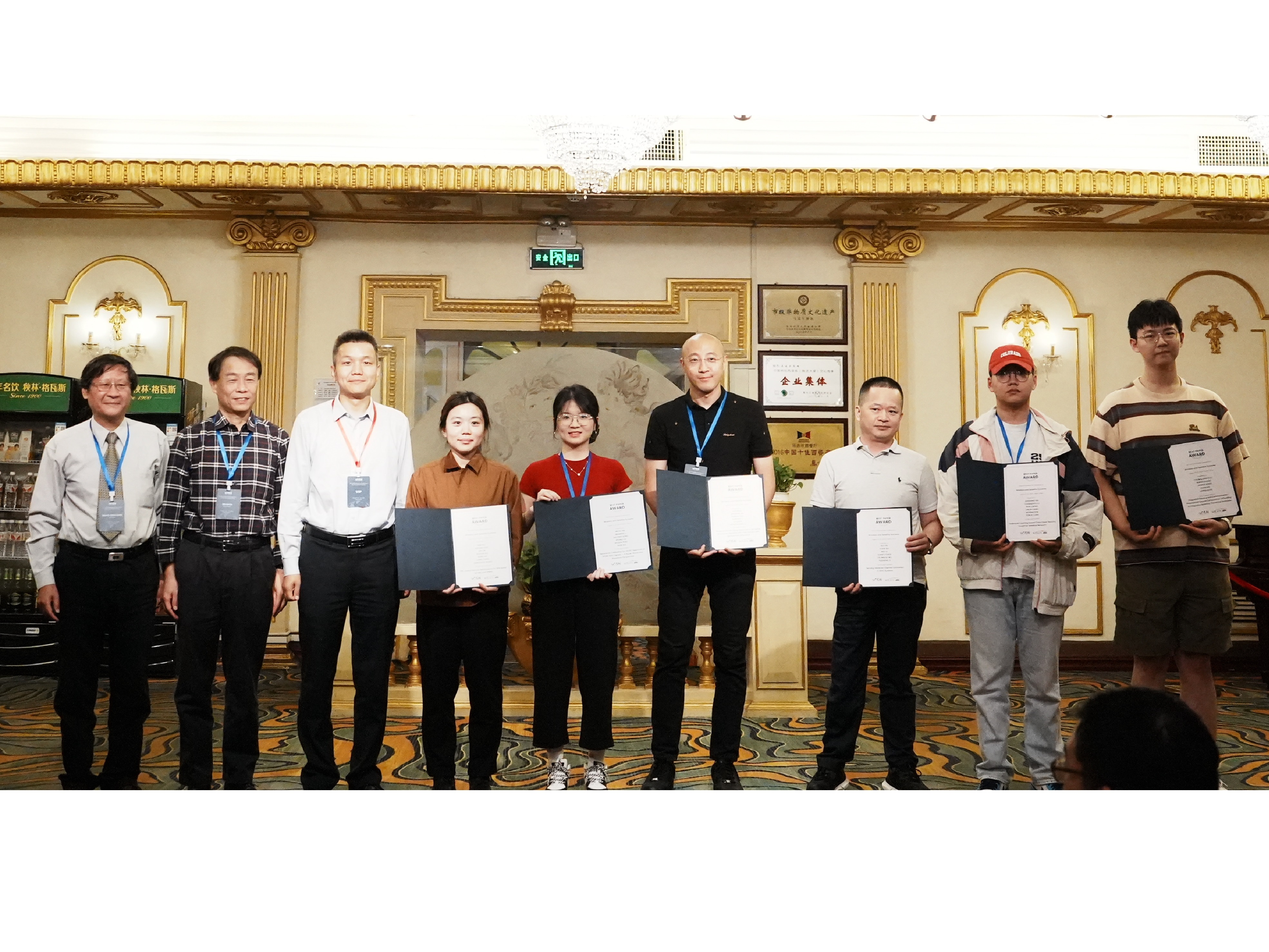
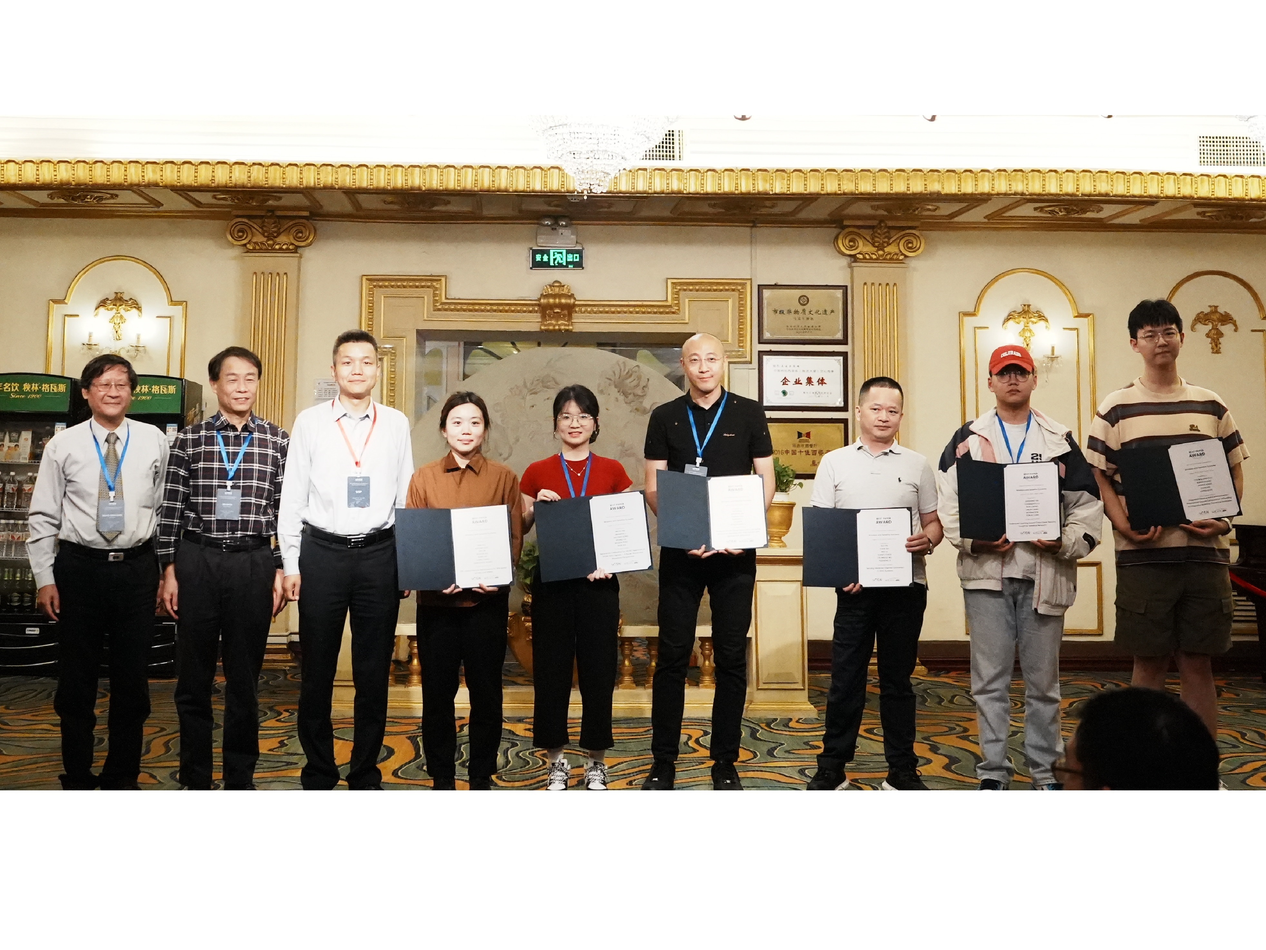
[post] 修改日期+图片尺寸

diff --git a/content/post/祝贺实验室尹志胜副教授、刘永红获得EAI WiSATS 2024最佳论文奖/index.md b/content/post/祝贺实验室尹志胜副教授、刘永红获得EAI WiSATS 2024最佳论文奖/index.md
@@ -1,6 +1,6 @@
 ---
 title: 祝贺实验室尹志胜副教授、刘永红获得EAI WiSATS 2024最佳论文奖
-date: 2023-08-26
+date: 2024-08-27
 tags:
   - paper
   - forum
